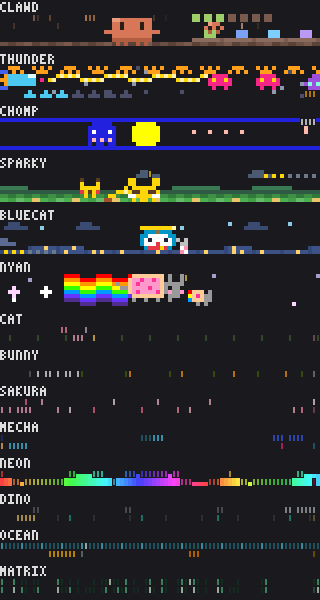
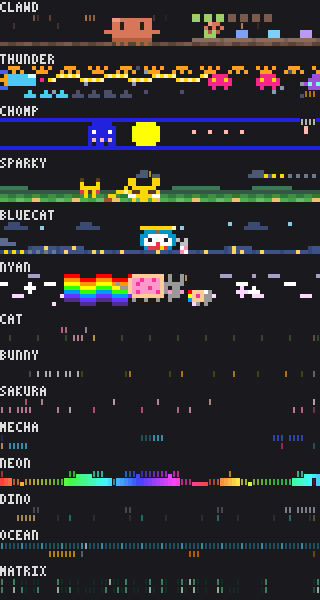
showtime: nyan — bash speed as a streak layer, no star teleport

diff --git a/showtime/hooks/themes/nyan.ts b/showtime/hooks/themes/nyan.ts
@@ -9,8 +9,8 @@
 // four-frame cycle, his head dips a pixel for four frames every sixteen and when the act changes, he
 // blinks every thirty. Stars pass at three depths, each keeping to its own cell row: far lavender
 // pixels along the top a column every four frames, mid pink pixels along the bottom every other
-// frame, near white crosses through the middle every frame, all twice as fast while bash (or an
-// agent or the web) runs. Each subagent is a small nyan cat flying in echelon off his nose (alternately low
+// frame, near white crosses through the middle every frame; while bash runs, streaks (three-pixel
+// dashes on lanes of their own) enter at the right edge two columns a frame on top of them. Each subagent is a small nyan cat flying in echelon off his nose (alternately low
 // and high), the newest entering from the right edge a column a frame; agents the band is too
 // narrow for are pips at the right edge. A failed test greys the rainbow and the stars and droops
 // his head for twenty frames; a passing test bursts a white star off his ear for sixteen; a commit
@@ -36,7 +36,10 @@
 // each depth keeps to its own cell row, since a star of one speed fused to one of another would be
 // stranded when they part.
 // Each glyph, burst and mini is fused to his right edge or starts at its own left column, and the
-// minis' legs sit under their tarts' bottom cells, so stars pass them without a new run.
+// minis' legs sit under their tarts' bottom cells, so stars pass them without a new run. The stars'
+// positions depend on `t` alone (a speed keyed to the tool would move every star by `t` columns
+// when the tool changed); bash's pace is a separate streak layer spawned on a fixed schedule from
+// `t`, drawn only for spawns since the act began, so it enters from the edge and vanishes when bash ends.
 import { canvas, cells, draw, frame, mod, noise, plot, put } from '../cells'
 import type { Canvas, Grid } from '../cells'
 import { SCENE_ROWS } from '../draw'
@@ -98,8 +101,16 @@ const STAR_DEPTHS = [
   { per: 14, speed: 1, color: WHITE, twinkle: PALE_PINK, seed: 80, rows: [3, 4] },
 ]
 const STAR_GREY = '#8a8a8a'
-/** The star field runs twice as fast for these tools. */
-const FAST_TOOLS = new Set(['bash', 'agent', 'web'])
+/** Bash's streaks: three-pixel dashes entering at the right edge two columns a frame, one every six
+ * frames per lane, the lanes staggered; on pixel rows no star keeps to, so none ever merges with a star. */
+const STREAK_LANES = [
+  { py: 2, phase: 0, color: WHITE },
+  { py: 5, phase: 2, color: PALE_PINK },
+  { py: 0, phase: 4, color: LAVENDER },
+]
+const STREAK_EVERY = 6
+const STREAK_SPEED = 2
+const STREAK_LEN = 3
 /** A subagent's mini: 6×4, its own three-band rainbow on its left so every cell row starts at its column. */
 const MINI = ['rTTT.G', 'yTPTGG', 'bTTTGG']
 const MINI_LEGS = [[2, 4], [2, 5], [3, 5], [3, 4]]
@@ -107,6 +118,8 @@ const MINI_W = 6
 const MINI_PITCH = 7
 const MINI_COLORS = { r: '#ff0000', y: '#ffff00', b: '#0099ff', T: TART_COLOR, P: DOT, G: FUR }
 const MAX_AGENTS = 4
+/** Pips stack up the right edge from the bottom; three keep the top cell (the glyph's, at width 16) clear. */
+const MAX_PIPS = 3
 
 /** Where the cat's left column sits: two-fifths across, but never off the right edge. */
 function catX(w: number): number {
@@ -138,19 +151,34 @@ function star(cv: Canvas, d: number, cx: number, cy: number, color: string, open
   for (const [dx, dy] of dots) if (open(cx + dx!, cy + dy!)) plot(cv, cx + dx!, cy + dy!, color)
 }
 
-/** The star field: three depths, each scrolling left at its own speed (times `mul`), entering at the right edge. */
-function stars(cv: Canvas, t: number, mul: number, grey: boolean, festive: boolean, open: (px: number, py: number) => boolean): void {
+/** The star field: three depths, each scrolling left at its own speed, entering at the right edge. Positions
+ * depend on `t` alone: a speed that changed with the tool would teleport every star when the tool did. */
+function stars(cv: Canvas, t: number, grey: boolean, festive: boolean, open: (px: number, py: number) => boolean): void {
   const w = cv.w
   STAR_DEPTHS.forEach((depth, d) => {
     const n = Math.max(1, Math.floor(w / depth.per))
     for (let i = 0; i < n; i++) {
-      const sx = mod(Math.floor(noise(i + depth.seed) * w * 3) - Math.floor(t * depth.speed * mul), w)
+      const sx = mod(Math.floor(noise(i + depth.seed) * w * 3) - Math.floor(t * depth.speed), w)
       const sy = depth.rows[Math.floor(noise(i + depth.seed + 1) * depth.rows.length)]!
       const twinkle = mod(t + i * 7, 20) < 3
       const color = grey ? STAR_GREY : festive && d === 2 ? RAINBOW[mod(i + (t >> 1), 6)]! : twinkle ? depth.twinkle : depth.color
       star(cv, d, sx, sy, color, open)
     }
   })
+}
+
+/** Bash's streaks: spawned on a fixed schedule from `t` alone (so bash starting never shifts one), each at
+ * `w - 1 - 2 * (t - spawnAt)`; only spawns since the act began (`actAge`) are drawn, so the first ones
+ * enter from the edge rather than popping in mid-band, and when bash ends the layer just stops. */
+function streaks(cv: Canvas, t: number, actAge: number, grey: boolean, open: (px: number, py: number) => boolean): void {
+  const w = cv.w
+  const oldest = t - Math.ceil((w + STREAK_LEN) / STREAK_SPEED)
+  for (const lane of STREAK_LANES) {
+    for (let sp = t - mod(t - lane.phase, STREAK_EVERY); sp >= Math.max(oldest, t - actAge); sp -= STREAK_EVERY) {
+      const hx = w - 1 - STREAK_SPEED * (t - sp)
+      for (let i = 0; i < STREAK_LEN; i++) if (open(hx + i, lane.py)) plot(cv, hx + i, lane.py, grey ? STAR_GREY : lane.color)
+    }
+  }
 }
 
 /** The rainbow: six bands and their shadow waving behind him from `x - len` to his column, in `colors`
@@ -203,7 +231,7 @@ function minis(cv: Canvas, t: number, x: number, s: Signals): void {
     draw(cv, mx, py, MINI, MINI_COLORS)
     for (const lx of frame(MINI_LEGS, t + i)) plot(cv, mx + lx, py + 3, FUR)
   }
-  const pips = Math.max(0, Math.min(s.agents - n, MAX_AGENTS))
+  const pips = Math.max(0, Math.min(s.agents - n, MAX_PIPS))
   for (let i = 0; i < pips; i++) {
     const color = RAINBOW[mod(i * 2 + (t >> 2), 6)]!
     plot(cv, w - 1, 6 - 2 * i, color)
@@ -225,8 +253,8 @@ export function nyanScene(t: number, w: number, s: Signals): Grid {
   // The stars, behind everything: masked under the trail and the cat, and in the air before his face.
   const open = (px: number, py: number) =>
     !(px >= x - len && px <= x + CAT_W) && !(py < 4 && px >= x + CAT_W && px <= x + CAT_W + AIR_W)
-  const fast = act === 'tool' && !!s.tool && FAST_TOOLS.has(s.tool)
-  stars(cv, t, fast ? 2 : 1, isFail, isCommit, open)
+  stars(cv, t, isFail, isCommit, open)
+  if (act === 'tool' && s.tool === 'bash') streaks(cv, t, s.actAge, isFail, open)
 
   // The rainbow: greyed by a failed test, rolling when the last task lands, doubled by a commit.
   const roll = allDone ? -(s.doneAge >> 1) : 0
